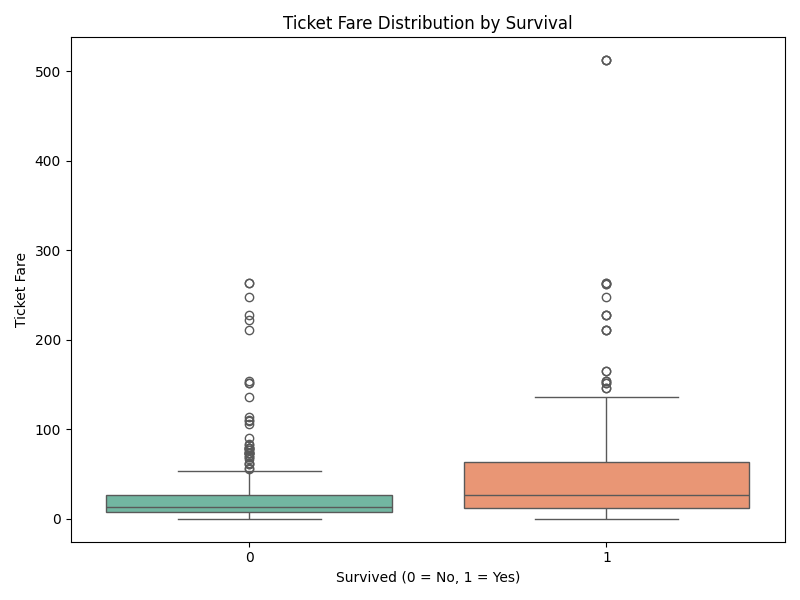
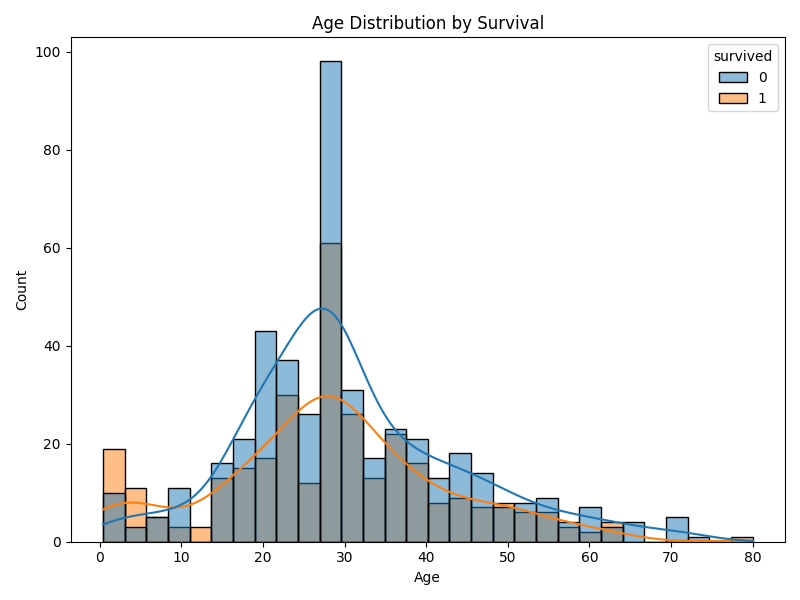
Updated Docker image and code

diff --git a/bd-a1/service-result/dpre.py b/bd-a1/service-result/dpre.py
@@ -6,20 +6,12 @@ file_path = sys.argv[1]
 
 df = pd.read_csv(file_path, encoding='utf-8')
 df.drop(columns=['Ticket', 'Cabin', 'Name' , 'PassengerId'], errors='ignore', inplace=True)
-df.columns = df.columns.str.strip().str.lower()
-df.fillna(df.median(numeric_only=True), inplace=True)
-df.drop_duplicates(inplace=True)
+duplicates = df[df.duplicated()]
 duplicates_count = df.duplicated().sum()
-print(f"Num of Duplicates Columns {duplicates_count}")
-
-for col in df.select_dtypes(include=['object']).columns:
-    df[col] = df[col].str.lower()
-
-print(f" Num of Columns after lowercase: {df.shape[0]}")
-
-df.to_csv("res_dpre.csv", index=False)
-
+print(f"Num of Columns after Drop {df.shape[0] - duplicates_count}")
+df.drop_duplicates(inplace=True)
 print("Preprocess Done")
 
+df.to_csv("res_dpre.csv", index=False)
 subprocess.run(["python3", "/home/doc-bd-a1/eda.py", "/home/doc-bd-a1/res_dpre.csv"])
 

diff --git a/bd-a1/service-result/vis.py b/bd-a1/service-result/vis.py
@@ -8,13 +8,11 @@ file_path = sys.argv[1]
 df = pd.read_csv(file_path)
 
 plt.figure(figsize=(8, 6))
-
-sns.boxplot(data=df, x="survived", y="fare", palette="Set2")
-
-plt.xlabel("Survived (0 = No, 1 = Yes)")
-plt.ylabel("Ticket Fare")
-plt.title("Ticket Fare Distribution by Survival")
-
+sns.histplot(df, x="age", hue="survived", kde=True, bins=30)
+plt.title("Age Distribution by Survival")
+plt.xlabel("Age")
+plt.ylabel("Count")
+plt.show()
 plt.tight_layout()
 plt.savefig("vis.png")
 
